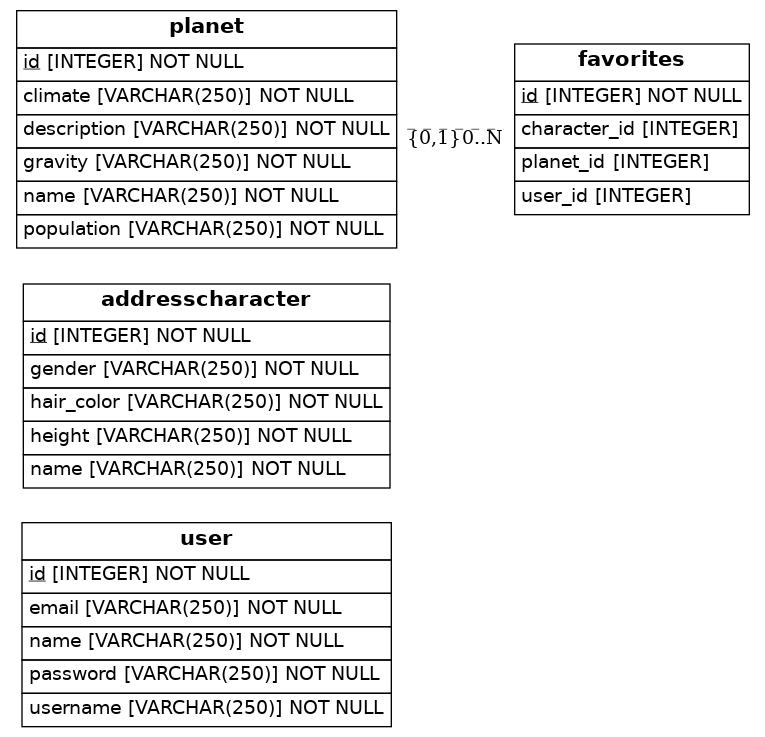
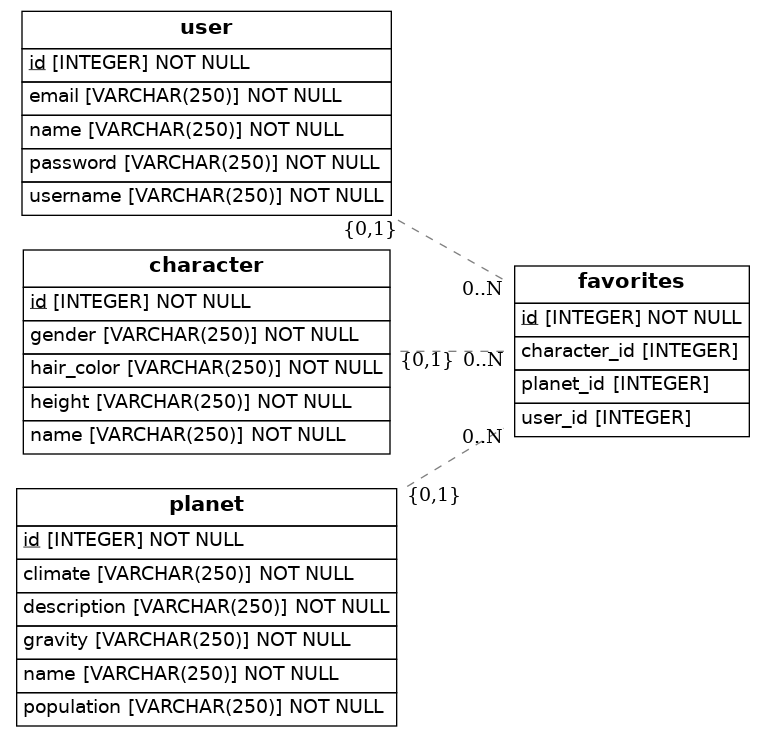
astrid ya esta listo con las correciones

diff --git a/src/models.py b/src/models.py
@@ -18,7 +18,7 @@ class User(Base):
     email = Column(String(250), nullable=False, unique=True)
 
 class Character(Base):
-    __tablename__ = 'addresscharacter'
+    __tablename__ = 'character'
     # Here we define columns for the table address.
     # Notice that each column is also a normal Python instance attribute.
     id = Column(Integer, primary_key=True)
@@ -47,7 +47,7 @@ class Favorites(Base):
     # Here we define columns for the table address.
     # Notice that each column is also a normal Python instance attribute.
     id = Column(Integer, primary_key=True)
-    user_id = Column(Integer, ForeignKey('person.id'))
+    user_id = Column(Integer, ForeignKey('user.id'))
     user = relationship(User)
     character_id = Column(Integer, ForeignKey('character.id'))
     character = relationship(Character)
